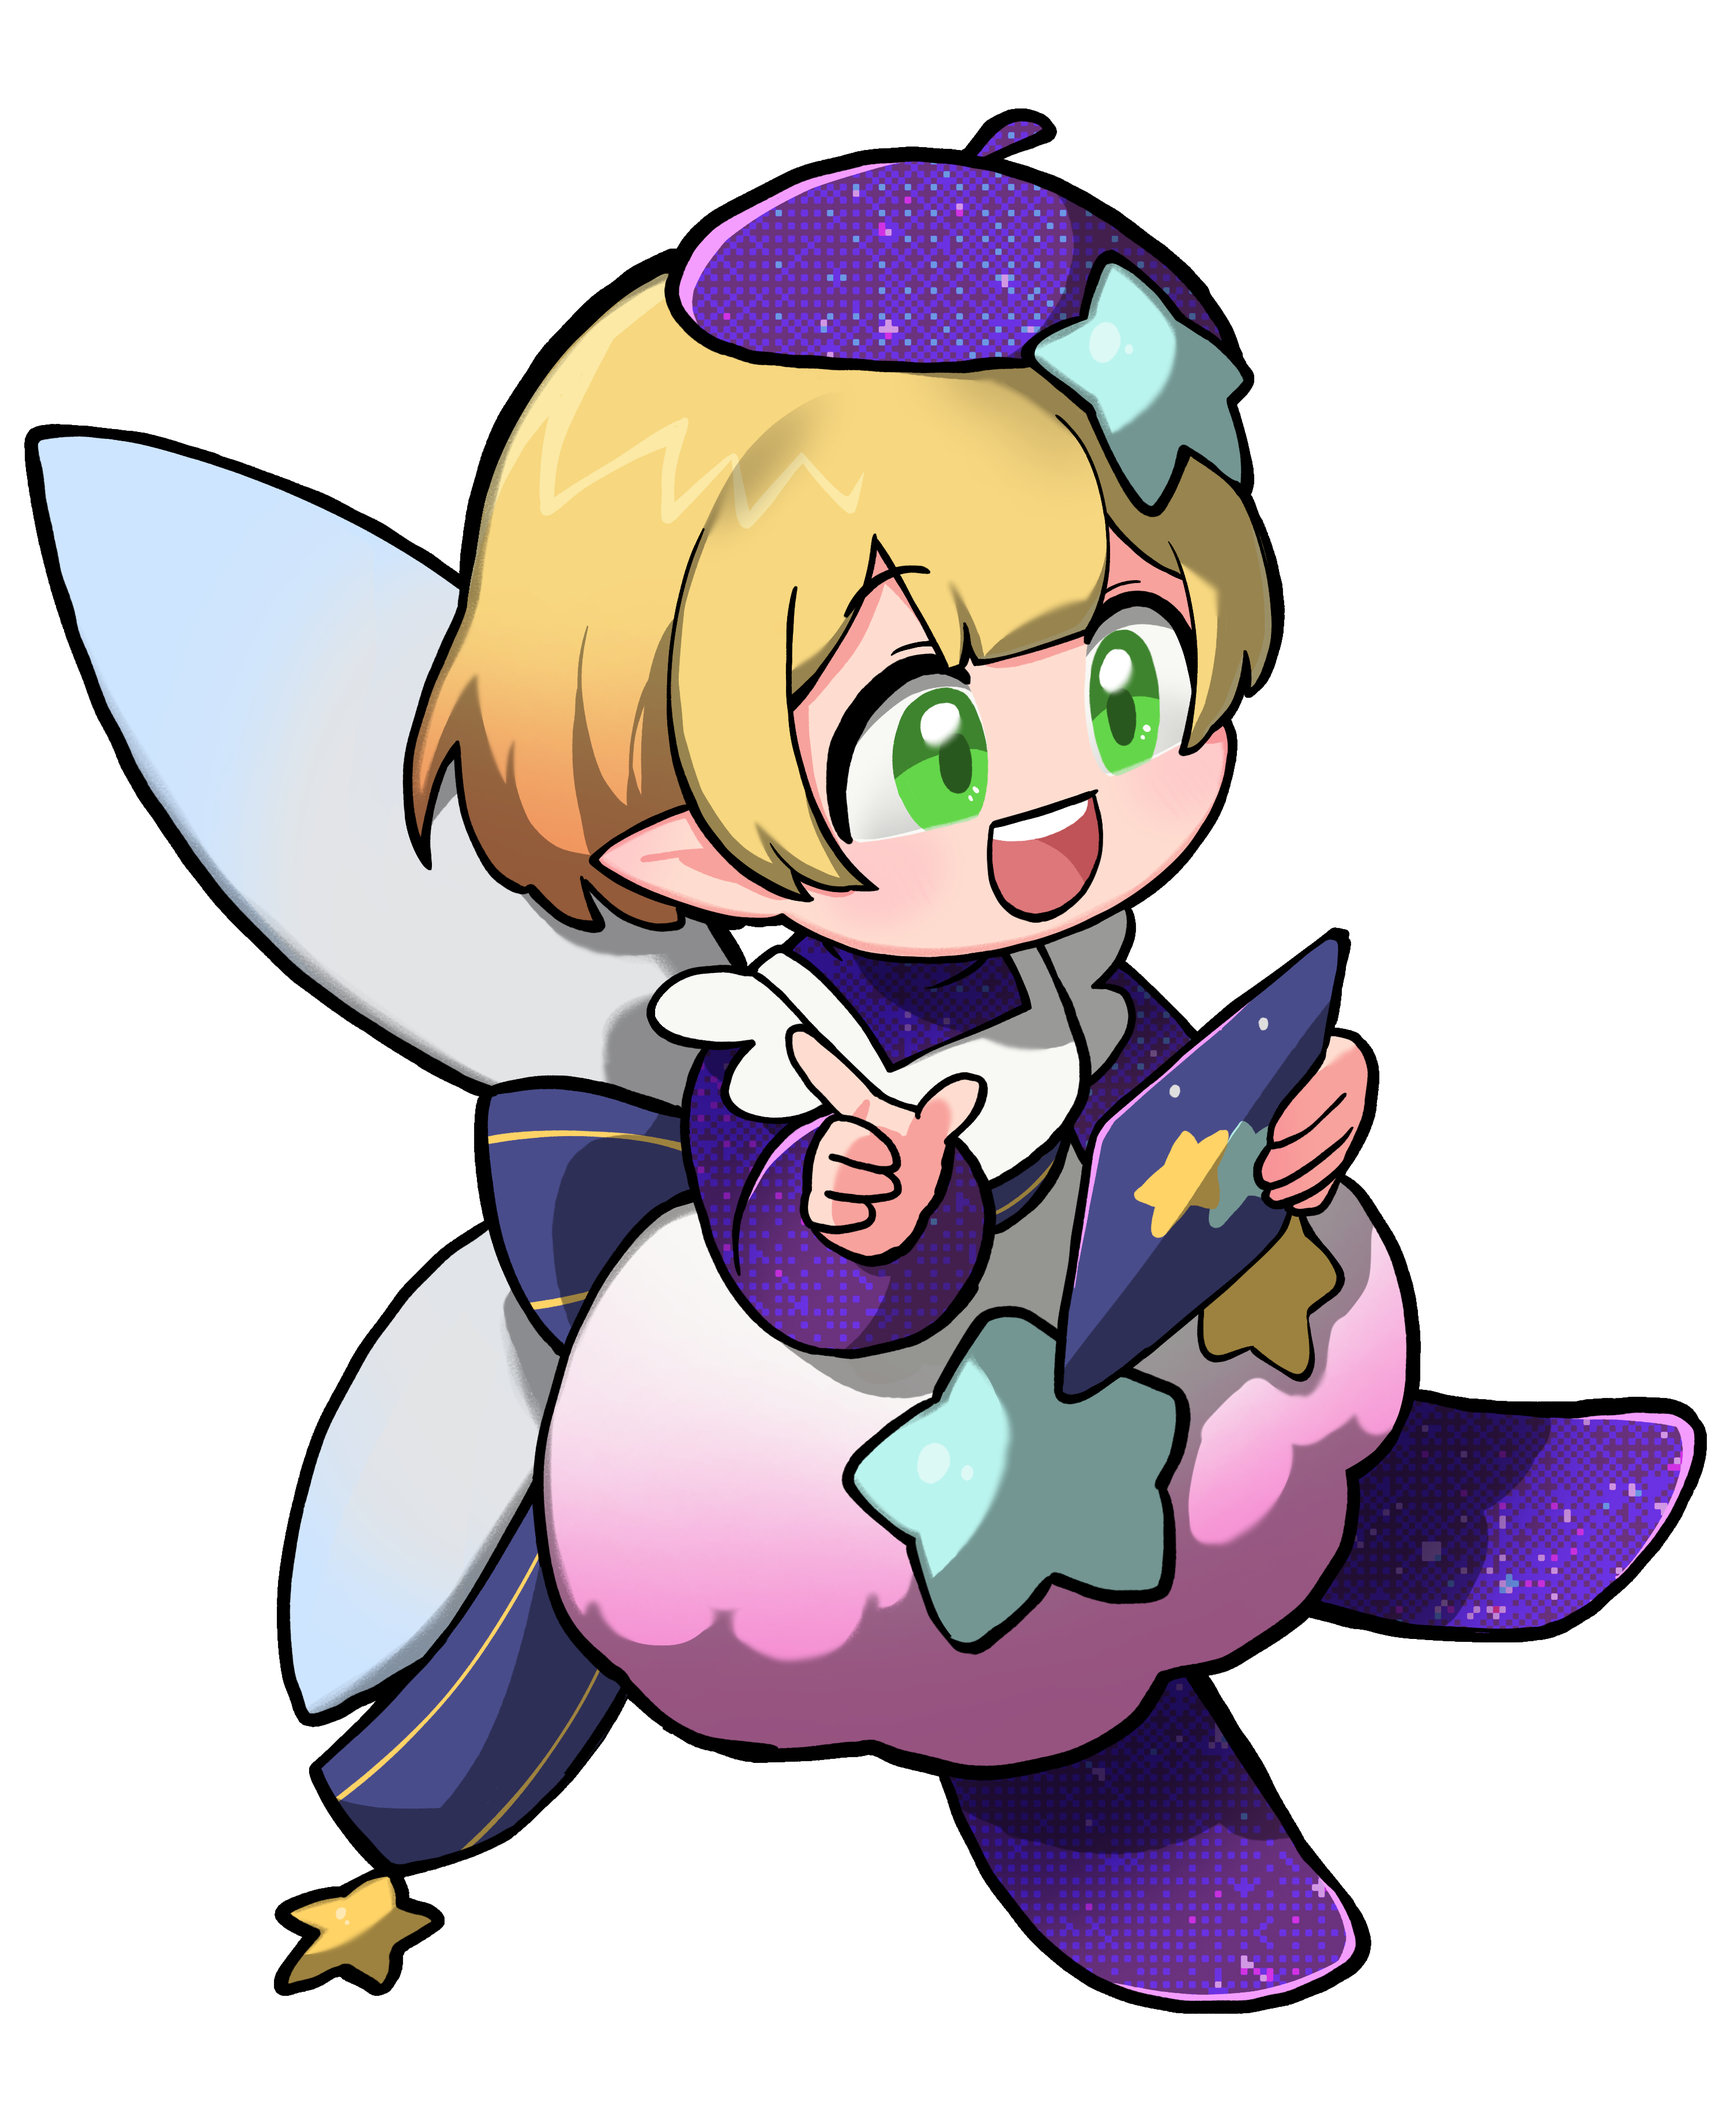
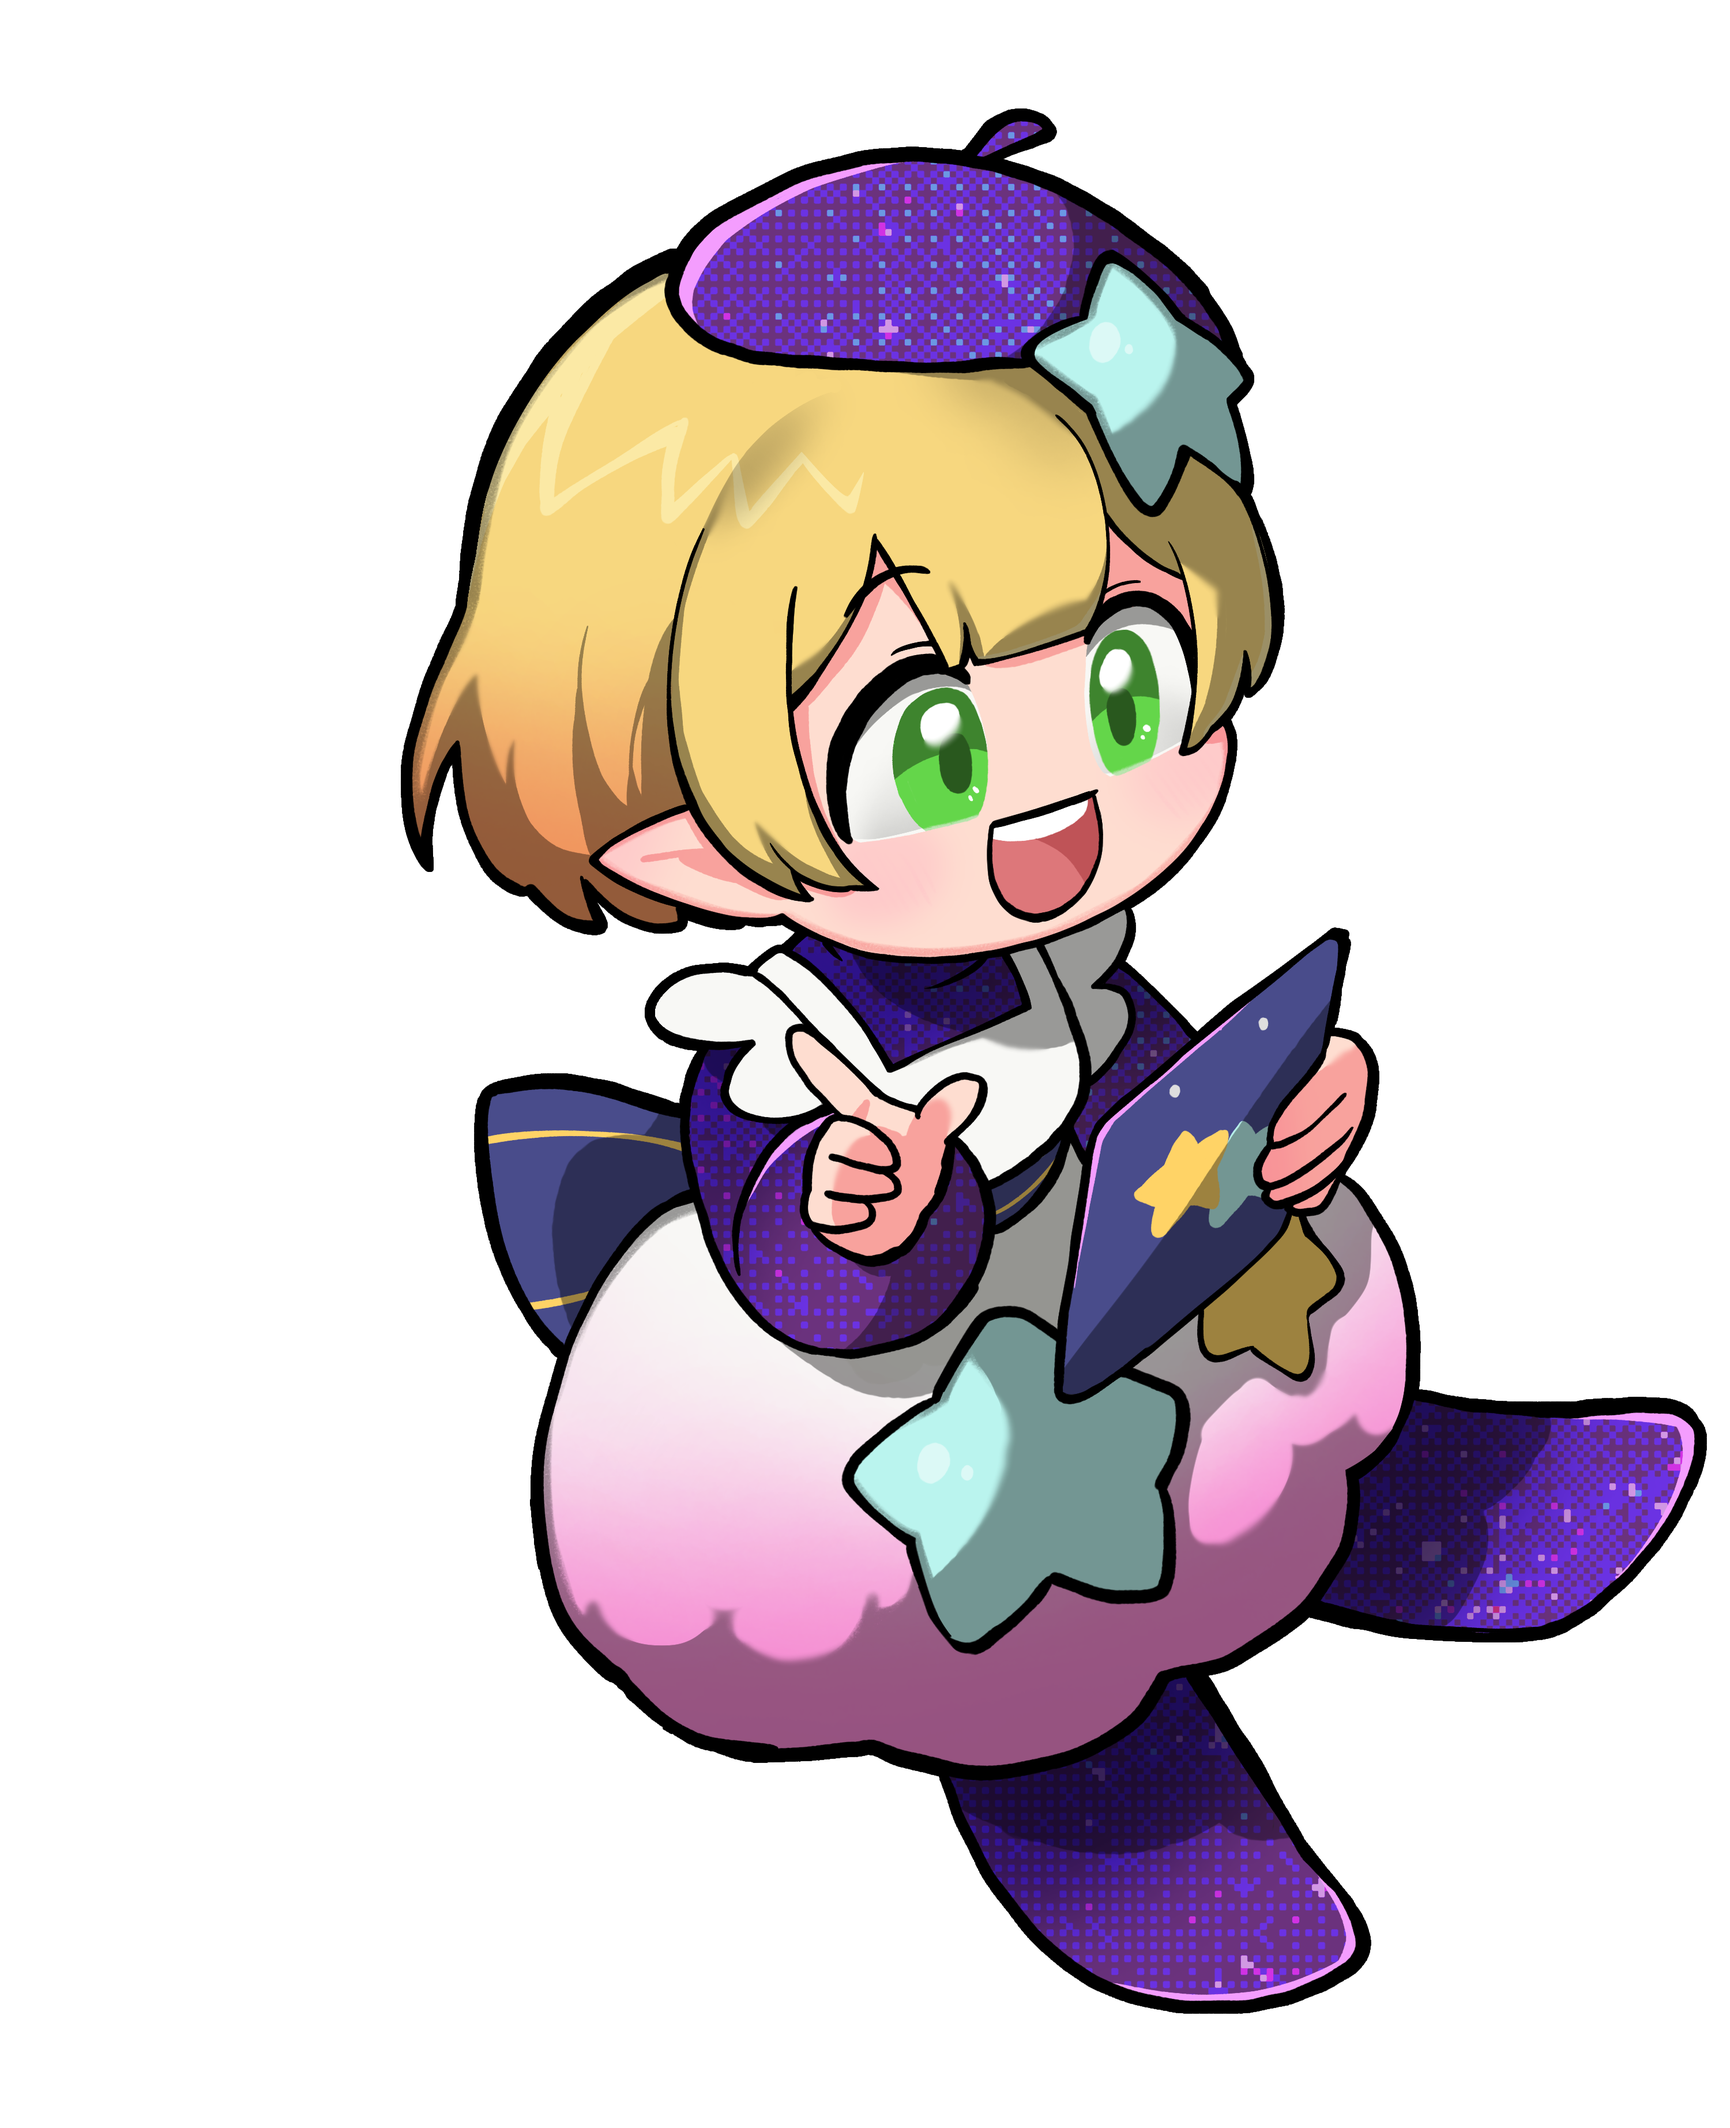
キャラクターの揺れ

Changed region(s): [[0.0, 0.187, 0.434, 0.5298], [0.155, 0.561, 0.372, 0.935]]

diff --git a/Assets/Components/GameScene/Grid/Scripts/CharacterFlutter.cs b/Assets/Components/GameScene/Grid/Scripts/CharacterFlutter.cs
@@ -1,0 +1,171 @@
+using System.Collections.Generic;
+using UnityEngine;
+
+/// <summary>
+/// sin波を使って複数のオブジェクトをz回転で揺らすスクリプト
+/// </summary>
+public class CharacterFlutter : MonoBehaviour
+{
+    [System.Serializable]
+    public class FlutterItem
+    {
+        [Tooltip("揺らす対象のTransform")]
+        public Transform targetTransform;
+        
+        [Tooltip("回転の最小値（度）")]
+        public float minRotation = -5f;
+        
+        [Tooltip("回転の最大値（度）")]
+        public float maxRotation = 5f;
+        
+        [Tooltip("揺れの間隔（秒）。この時間で1周期のsin波を描きます")]
+        public float flutterInterval = 1f;
+        
+        [HideInInspector]
+        public float initialRotationZ;
+        
+        [HideInInspector]
+        public float timeElapsed;
+    }
+
+    [Header("揺れ設定")]
+    [Tooltip("揺らすオブジェクトのリスト")]
+    [SerializeField] private List<FlutterItem> flutterItems = new List<FlutterItem>();
+
+    [Header("有効/無効")]
+    [Tooltip("揺れを有効にするかどうか")]
+    [SerializeField] private bool enableFluttering = true;
+
+    private void Start()
+    {
+        // 各アイテムの初期回転値を保存
+        foreach (var item in flutterItems)
+        {
+            if (item.targetTransform != null)
+            {
+                // z軸の回転のみを保存（Euler角から取得）
+                Vector3 euler = item.targetTransform.localEulerAngles;
+                item.initialRotationZ = euler.z;
+                item.timeElapsed = 0f;
+                
+                // flutterIntervalが0以下または無効な場合は警告
+                if (item.flutterInterval <= 0f || float.IsNaN(item.flutterInterval) || float.IsInfinity(item.flutterInterval))
+                {
+                    Debug.LogWarning($"CharacterFlutter: FlutterItemのflutterIntervalが無効です ({item.flutterInterval})。0より大きい値を設定してください。");
+                }
+            }
+        }
+    }
+
+    private void LateUpdate()
+    {
+        if (!enableFluttering)
+        {
+            // 無効な場合は初期回転に戻す
+            foreach (var item in flutterItems)
+            {
+                if (item.targetTransform != null)
+                {
+                    Vector3 euler = item.targetTransform.localEulerAngles;
+                    euler.z = item.initialRotationZ;
+                    item.targetTransform.localEulerAngles = euler;
+                }
+            }
+            return;
+        }
+
+        // 各アイテムを揺らす
+        foreach (var item in flutterItems)
+        {
+            if (item.targetTransform == null)
+            {
+                continue;
+            }
+
+            // flutterIntervalが0以下または無効な場合はスキップ
+            if (item.flutterInterval <= 0f || float.IsNaN(item.flutterInterval) || float.IsInfinity(item.flutterInterval))
+            {
+                continue;
+            }
+
+            // 経過時間を更新
+            item.timeElapsed += Time.deltaTime;
+
+            // sin関数を使って揺れ値を計算
+            // sin(2π * t / interval) で周期intervalの振動を生成
+            // -1から1の範囲を、minRotationからmaxRotationの範囲にマッピング
+            float sinValue = Mathf.Sin(2f * Mathf.PI * item.timeElapsed / item.flutterInterval);
+            
+            // sinValue (-1～1) を minRotation～maxRotation の範囲にマッピング
+            float rotationRange = item.maxRotation - item.minRotation;
+            float rotationOffset = item.minRotation + (sinValue + 1f) * 0.5f * rotationRange;
+
+            // 値が有効かチェック（NaNやInfinityを防ぐ）
+            if (float.IsNaN(rotationOffset) || float.IsInfinity(rotationOffset))
+            {
+                continue;
+            }
+
+            // 現在のEuler角を取得
+            Vector3 euler = item.targetTransform.localEulerAngles;
+            
+            // z軸の回転を計算（初期値 + 揺れのオフセット）
+            // Euler角のzは0～360度なので、初期値も0～360度に正規化
+            float currentZ = item.initialRotationZ;
+            if (currentZ > 180f)
+            {
+                currentZ -= 360f;
+            }
+            
+            float newZ = currentZ + rotationOffset;
+            
+            // -180～180度の範囲に正規化
+            while (newZ > 180f) newZ -= 360f;
+            while (newZ < -180f) newZ += 360f;
+            
+            // z軸の回転を更新
+            euler.z = newZ;
+            item.targetTransform.localEulerAngles = euler;
+        }
+    }
+
+    /// <summary>
+    /// 揺れを有効/無効にします
+    /// </summary>
+    public void SetFlutteringEnabled(bool enabled)
+    {
+        enableFluttering = enabled;
+        
+        // 無効にした場合は初期回転に戻す
+        if (!enabled)
+        {
+            foreach (var item in flutterItems)
+            {
+                if (item.targetTransform != null)
+                {
+                    Vector3 euler = item.targetTransform.localEulerAngles;
+                    euler.z = item.initialRotationZ;
+                    item.targetTransform.localEulerAngles = euler;
+                    item.timeElapsed = 0f;
+                }
+            }
+        }
+    }
+
+    /// <summary>
+    /// 初期回転値を再設定します（現在の回転を新しい初期値として設定）
+    /// </summary>
+    public void ResetInitialRotations()
+    {
+        foreach (var item in flutterItems)
+        {
+            if (item.targetTransform != null)
+            {
+                Vector3 euler = item.targetTransform.localEulerAngles;
+                item.initialRotationZ = euler.z;
+                item.timeElapsed = 0f;
+            }
+        }
+    }
+}
+
